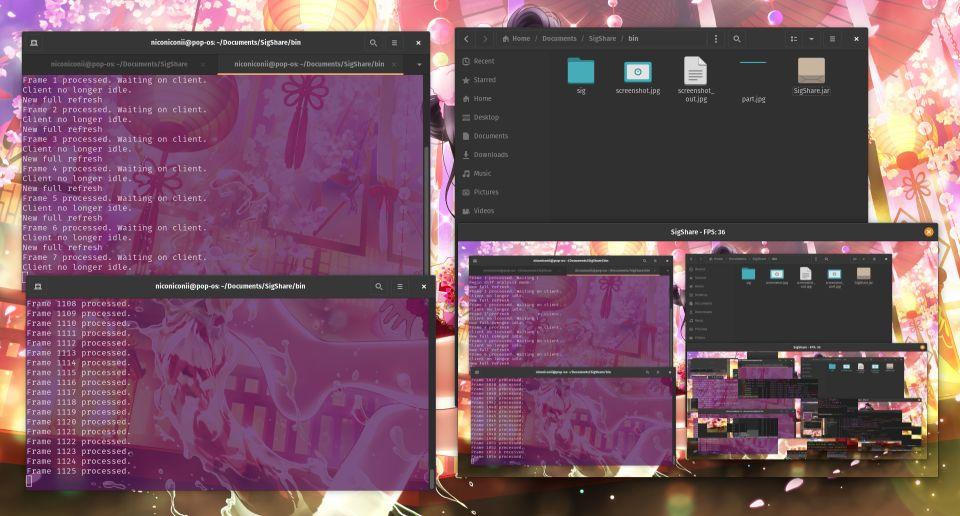
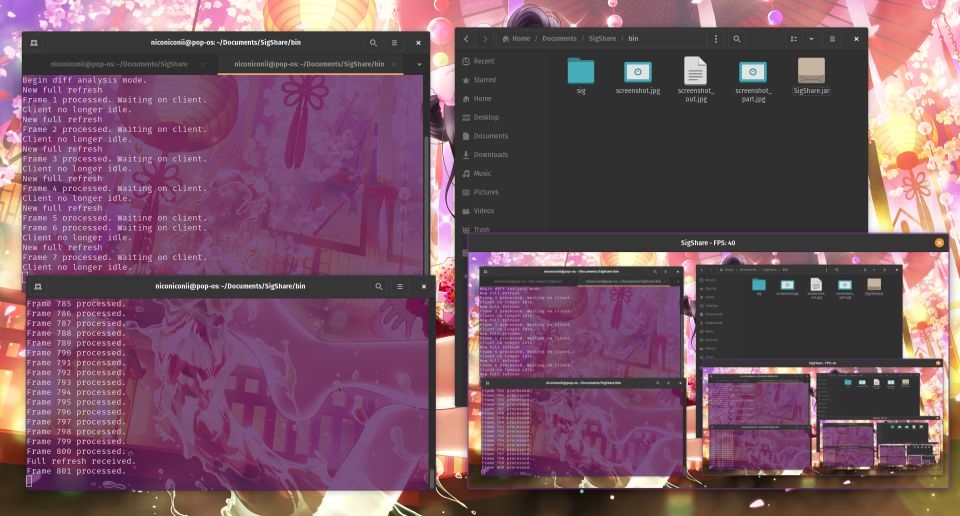
Propogate changes to nearby regions when active

diff --git a/src/sig/SigShare.java b/src/sig/SigShare.java
@@ -148,6 +148,18 @@ public class SigShare {
 												changes[(gridY)*REGION_X_COUNT+(gridX+1)]+=1;
 											}
 											if (changes[gridY*REGION_X_COUNT+gridX]>=CHANGE_THRESHOLD) {
+												if (gridY>0) {
+													changes[(gridY-1)*REGION_X_COUNT+gridX]+=CHANGE_THRESHOLD/2;
+												}
+												if (gridY<REGION_Y_COUNT-1) {
+													changes[(gridY+1)*REGION_X_COUNT+gridX]+=CHANGE_THRESHOLD/2;
+												}
+												if (gridX>0) {
+													changes[(gridY)*REGION_X_COUNT+(gridX-1)]+=CHANGE_THRESHOLD/2;
+												}
+												if (gridX<REGION_Y_COUNT-1) {
+													changes[(gridY)*REGION_X_COUNT+(gridX+1)]+=CHANGE_THRESHOLD/2;
+												}
 												performSubimageUpdate(in, clientOutput, newCapture, gridX, gridY);
 											}
 										}
